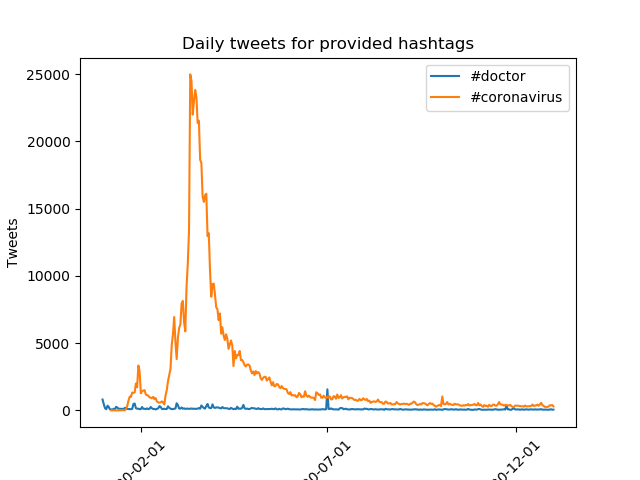
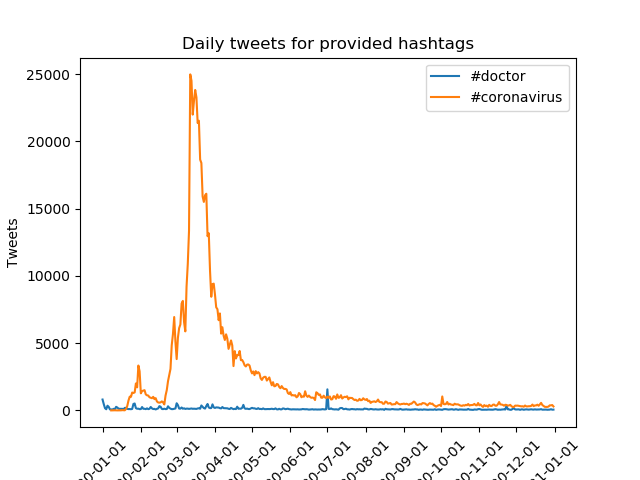
Show every month on axis

diff --git a/src/alternative_reduce.py b/src/alternative_reduce.py
@@ -47,7 +47,7 @@ for hsh in args.hashtags:
     dates = [datetime.strptime(date_str, "%y-%m-%d") for date_str in dates]
     ax.plot(dates, counts, label=hsh)
 
-ax.xaxis.set_major_locator(mdate.MonthLocator(interval=5))
+ax.xaxis.set_major_locator(mdate.MonthLocator(interval=1))
 ax.xaxis.set_major_formatter(mdate.DateFormatter("%y-%m-%d"))
 
 plt.xticks(rotation=45)
